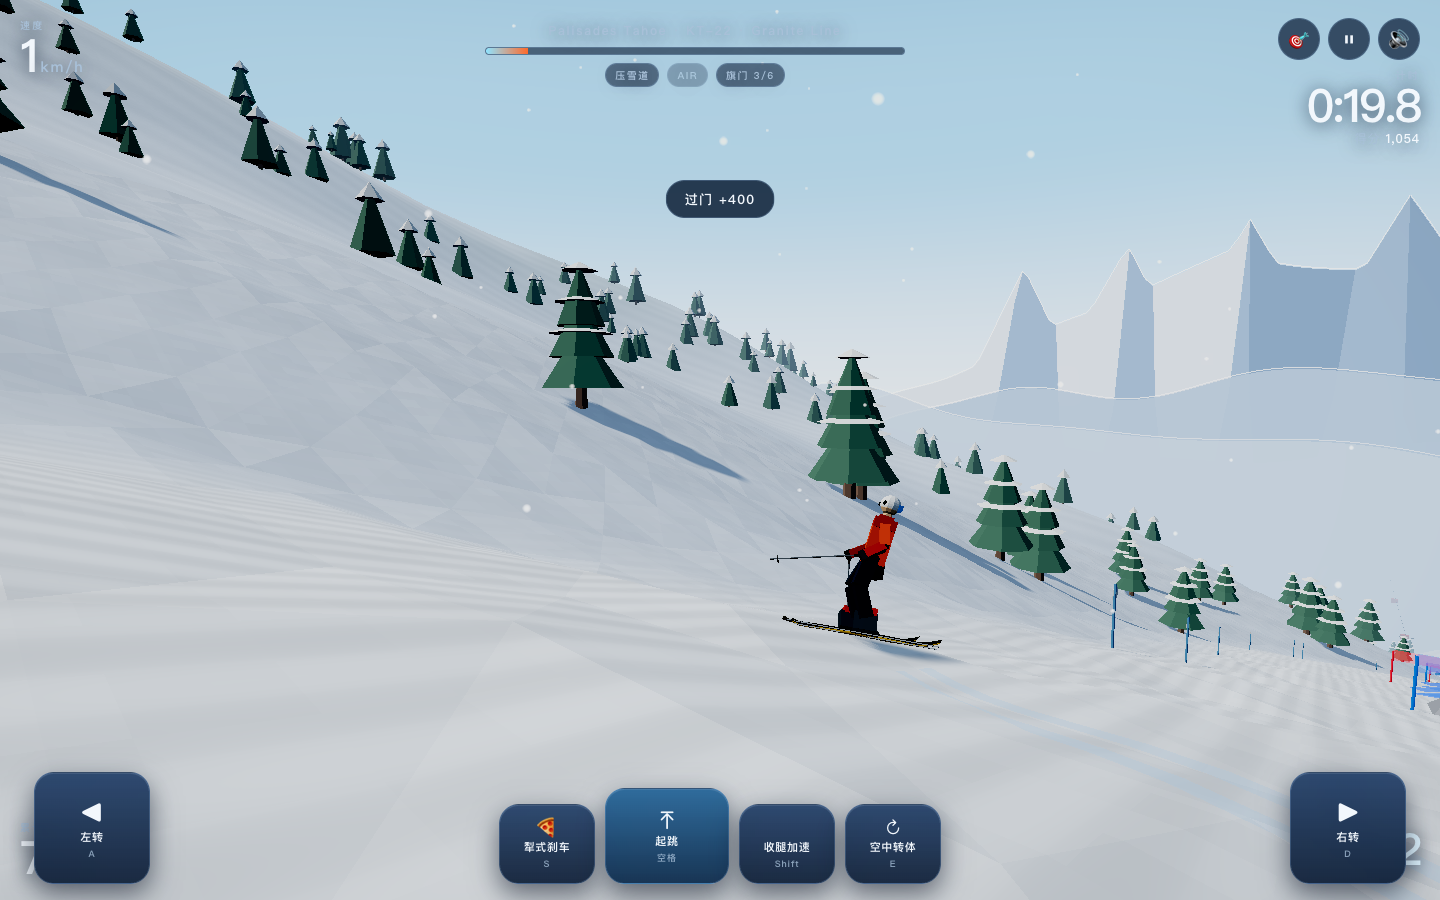
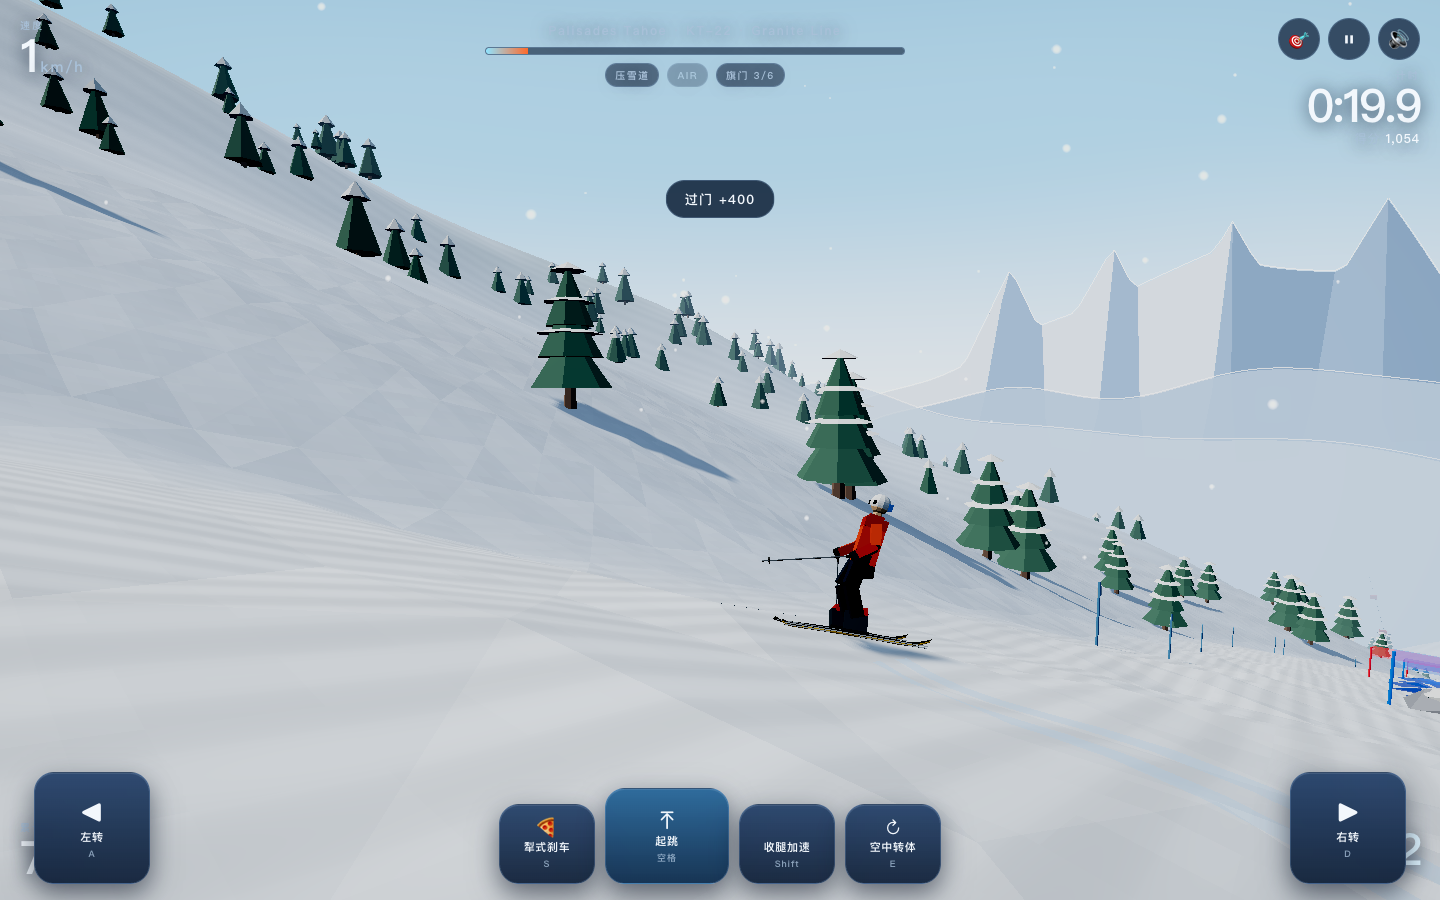
Add powder spray + golden-hour lighting for real-ski feel
- fx.js Spray: per-particle shader (NormalBlending, size+alpha over life)
  so plumes read on bright snow; puff-and-settle billow
- game.js: emitSpray tuned for speed x edge x powder; burstLanding ring on touchdown
- resorts.js: Aspen = warm afternoon gold, Big Sky = alpenglow dusk (low sun -> long shadows)
- game.js: scene.background = sky-top colour + sky dome fog:false, fixes low-sun black-sky-gap triangle
- qa/verify.py: snow-brightness probe majority >=3/5 (side probes catch flank shadows)
- README + reshot QA. 91/91 PASS

diff --git a/src/fx.js b/src/fx.js
@@ -83,28 +83,59 @@ export class Snowfall {
 
 /* ---------------------------------------------------------------- spray */
 
-/** Snow thrown up by the edges — the visual payoff of a hard carve or a powder turn. */
+/**
+ * Snow thrown up by the edges — the visual payoff of a hard carve or a powder turn.
+ *
+ * Each particle now carries its own size and fades both in and out over its life, so a
+ * hard carve reads as a soft billowing cloud of powder rather than a fixed spray of dots.
+ * On ~0.95-albedo sunlit snow AdditiveBlending washes the plume out to nothing, so we use
+ * NormalBlending and let a per-particle alpha attribute carry the puff-and-settle look.
+ */
 export class Spray {
-  constructor(scene, max = 1400) {
+  constructor(scene, max = 2600) {
     this.max = max;
     this.pos = new Float32Array(max * 3);
     this.vel = new Float32Array(max * 3);
     this.life = new Float32Array(max);
+    this.maxLife = new Float32Array(max);
     this.size = new Float32Array(max);
+    this.alpha = new Float32Array(max);
     this.head = 0;
     const geo = new THREE.BufferGeometry();
     geo.setAttribute('position', new THREE.BufferAttribute(this.pos, 3));
-    this.points = new THREE.Points(geo, new THREE.PointsMaterial({
-      map: softDot(), color: 0xf2fbff, size: 0.34,
-      transparent: true, opacity: 0.9, depthWrite: false,
-      sizeAttenuation: true, blending: THREE.AdditiveBlending,
-    }));
+    geo.setAttribute('aSize', new THREE.BufferAttribute(this.size, 1));
+    geo.setAttribute('aAlpha', new THREE.BufferAttribute(this.alpha, 1));
+    // Per-particle size + alpha via a tiny ShaderMaterial. NormalBlending keeps the plume
+    // opaque and readable against bright snow; the soft dot texture rounds every particle.
+    const mat = new THREE.ShaderMaterial({
+      uniforms: { uTex: { value: softDot() }, uPix: { value: (innerHeight || 900) * 0.5 } },
+      transparent: true, depthWrite: false, blending: THREE.NormalBlending,
+      vertexShader: `
+        attribute float aSize; attribute float aAlpha;
+        varying float vA;
+        uniform float uPix;
+        void main(){
+          vA = aAlpha;
+          vec4 mv = modelViewMatrix * vec4(position, 1.0);
+          gl_Position = projectionMatrix * mv;
+          gl_PointSize = aSize * uPix / max(1.0, -mv.z);
+        }`,
+      fragmentShader: `
+        uniform sampler2D uTex; varying float vA;
+        void main(){
+          vec4 t = texture2D(uTex, gl_PointCoord);
+          // slightly cool-white powder
+          gl_FragColor = vec4(vec3(0.96, 0.98, 1.0), t.a * vA);
+        }`,
+    });
+    this.points = new THREE.Points(geo, mat);
     this.points.frustumCulled = false;
+    this.points.renderOrder = 2;
     scene.add(this.points);
     for (let i = 0; i < max; i++) this.pos[i * 3 + 1] = -9999;
   }
 
-  emit(x, y, z, vx, vy, vz, life, spread) {
+  emit(x, y, z, vx, vy, vz, life, spread, size = 0.6) {
     const i = this.head;
     this.head = (this.head + 1) % this.max;
     this.pos[i * 3] = x; this.pos[i * 3 + 1] = y; this.pos[i * 3 + 2] = z;
@@ -112,6 +143,9 @@ export class Spray {
     this.vel[i * 3 + 1] = vy + Math.random() * spread * 0.7;
     this.vel[i * 3 + 2] = vz + (Math.random() - 0.5) * spread;
     this.life[i] = life;
+    this.maxLife[i] = life;
+    this.size[i] = size * (0.7 + Math.random() * 0.7);
+    this.alpha[i] = 0;
   }
 
   update(dt) {
@@ -119,18 +153,29 @@ export class Spray {
       if (this.life[i] <= 0) continue;
       this.life[i] -= dt;
       const j = i * 3;
-      this.vel[j + 1] -= 7.5 * dt;
+      // gentle gravity + air drag so the cloud puffs out then settles
+      this.vel[j] *= (1 - 1.6 * dt);
+      this.vel[j + 2] *= (1 - 1.6 * dt);
+      this.vel[j + 1] -= 5.2 * dt;
       this.pos[j] += this.vel[j] * dt;
       this.pos[j + 1] += this.vel[j + 1] * dt;
       this.pos[j + 2] += this.vel[j + 2] * dt;
-      if (this.life[i] <= 0) this.pos[j + 1] = -9999;
+      // life-normalised: fade in fast, expand, then fade out
+      const t = 1 - this.life[i] / this.maxLife[i];       // 0..1 over lifetime
+      this.alpha[i] = Math.min(1, t * 6) * (1 - t * t) * 0.95; // quick puff, slow settle
+      this.size[i] += dt * 1.9;                            // billow outward
+      if (this.life[i] <= 0) { this.pos[j + 1] = -9999; this.alpha[i] = 0; }
     }
-    this.points.geometry.attributes.position.needsUpdate = true;
+    const a = this.points.geometry.attributes;
+    a.position.needsUpdate = true;
+    a.aSize.needsUpdate = true;
+    a.aAlpha.needsUpdate = true;
   }
 
   clear() {
-    for (let i = 0; i < this.max; i++) { this.life[i] = 0; this.pos[i * 3 + 1] = -9999; }
-    this.points.geometry.attributes.position.needsUpdate = true;
+    for (let i = 0; i < this.max; i++) { this.life[i] = 0; this.pos[i * 3 + 1] = -9999; this.alpha[i] = 0; }
+    const a = this.points.geometry.attributes;
+    a.position.needsUpdate = true; a.aAlpha.needsUpdate = true;
   }
 
   dispose() {

diff --git a/src/resorts.js b/src/resorts.js
@@ -70,16 +70,18 @@ export const RESORTS = [
     },
     physics: { drag: 0.0044, carve: 1.5, maxSpeed: 31, grip: 1.0, deepDrag: 3.0, brake: 0.8 },
     palette: {
-      skyTop: [0.09, 0.24, 0.54], skyMid: [0.38, 0.62, 0.88], skyLow: [1.0, 0.85, 0.66],
-      sunDir: [0.55, 0.24, 0.80], sunTint: [1.0, 0.68, 0.32], sunSharp: 15,
+      // Late-afternoon Colorado gold: warm low sky feeding a cool zenith. Low sun (y≈0.16)
+      // rakes across the snow so trees and moguls throw long amber shadows.
+      skyTop: [0.10, 0.22, 0.48], skyMid: [0.52, 0.60, 0.82], skyLow: [1.0, 0.72, 0.42],
+      sunDir: [0.60, 0.16, 0.78], sunTint: [1.0, 0.62, 0.28], sunSharp: 13,
       // Warm afternoon light on *white* snow. The old warm snow + warm fog combination
       // tinted the whole mountain sand-beige and read as a desert.
-      fog: 0xdcdfe4, fogNear: 100, fogFar: 1000,
+      fog: 0xe6d9cc, fogNear: 110, fogFar: 1050,
       snowLo: [0.95, 0.955, 0.97], snowHi: [1.0, 1.0, 1.0], offPiste: [0.86, 0.87, 0.93],
       rock: 0x8b7a6c, tree: 0x2f5138, treeSnow: 0xfff4e2, corduroy: 0.03,
       // Ambient stays *cool* — snow in shade is lit by blue sky, and the warmth belongs to
       // the directional sun only. A warm hemisphere light turned the whole run beige.
-      hemiSky: 0xd7e6ff, hemiGround: 0x55503f, hemiInt: 2.1, sunInt: 3.4, exposure: 1.10,
+      hemiSky: 0xd9e4ff, hemiGround: 0x5a4c3a, hemiInt: 1.9, sunInt: 3.6, exposure: 1.12,
     },
     flora: { kind: 'aspen', density: 1.0, lineGap: 5, scale: [0.9, 1.5] },
     props: { lift: 'gondola', hut: true, snowgun: false, bamboo: false, serac: false, village: false },
@@ -160,10 +162,10 @@ export const RESORTS = [
     cn_region: '美国 蒙大拿州',
     difficulty: 'black',
     seed: 5503,
-    blurb: 'Lone Peak 那个金字塔就在正前方。空气干冷，雪是冷烟一样的，树线以上几乎只有你和风。',
+    blurb: 'Lone Peak 那个金字塔就在正前方。日落把树线以上的雪染成粉金色，空气干冷，只有你和风。',
     facts: { verticalRefM: 1326, summitRefM: 3403, note: 'Lone Peak Tram · 大落差' },
     trails: ['Liberty Bowl', 'Marx', 'Lenin', 'Big Rock Tongue'],
-    tags: ['树线以上', '冷烟雪', '大落差', 'Lone Peak'],
+    tags: ['树线以上', '日落粉金', '大落差', 'Lone Peak'],
     run: { name: 'Liberty Bowl · Lone Peak', lengthM: 2800, parSec: 96 },
     terrain: {
       pitch: 0.335, pisteHalf: 24, wallSteep: 1.2, rollAmp: 5.2,
@@ -173,12 +175,17 @@ export const RESORTS = [
     },
     physics: { drag: 0.0036, carve: 1.48, maxSpeed: 38, grip: 1.0, deepDrag: 3.0, brake: 0.75 },
     palette: {
-      skyTop: [0.04, 0.14, 0.42], skyMid: [0.22, 0.48, 0.82], skyLow: [0.72, 0.86, 0.98],
-      sunDir: [0.35, 0.28, 0.89], sunTint: [1.0, 0.88, 0.70], sunSharp: 30,
-      fog: 0xbcd6f2, fogNear: 130, fogFar: 1150,
-      snowLo: [0.92, 0.96, 1.0], snowHi: [1.0, 1.0, 1.0], offPiste: [0.82, 0.90, 1.0],
-      rock: 0x77808f, tree: 0x1a3b34, treeSnow: 0xf7fcff, corduroy: 0.02,
-      hemiSky: 0xc6e4ff, hemiGround: 0x2a4056, hemiInt: 2.0, sunInt: 3.3, exposure: 1.06,
+      // Alpenglow at last light: a hot pink-orange horizon climbing into deep dusk blue.
+      // The sun sits right on the horizon (y≈0.10) so Lone Peak and every bump throws a
+      // long rose-gold shadow across the bowl.
+      skyTop: [0.06, 0.10, 0.34], skyMid: [0.46, 0.42, 0.66], skyLow: [1.0, 0.55, 0.46],
+      sunDir: [0.40, 0.10, 0.86], sunTint: [1.0, 0.55, 0.40], sunSharp: 22,
+      fog: 0xd9bfc6, fogNear: 130, fogFar: 1150,
+      // snow at dusk picks up the warm sky low and cool shade high — keep the base bright
+      // so it still reads as snow, the warmth comes from the directional sun.
+      snowLo: [0.94, 0.93, 0.96], snowHi: [1.0, 0.99, 0.98], offPiste: [0.82, 0.86, 0.96],
+      rock: 0x6b6270, tree: 0x24303f, treeSnow: 0xffe9e0, corduroy: 0.02,
+      hemiSky: 0xcabfe0, hemiGround: 0x3a3550, hemiInt: 1.9, sunInt: 3.5, exposure: 1.08,
     },
     flora: { kind: 'sparse', density: 0.4, lineGap: 9, scale: [0.7, 1.2] },
     props: { lift: 'tram', hut: false, snowgun: false, bamboo: false, serac: false, village: false },

diff --git a/src/game.js b/src/game.js
@@ -109,6 +109,14 @@ export class Game {
     this.teardownWorld();
     this.resort = resort;
     this.scene.fog = new THREE.Fog(resort.palette.fog, resort.palette.fogNear, resort.palette.fogFar);
+    // Fallback clear colour = the sky's mid tone. The sky dome normally covers the frame, but
+    // at a low sun angle with a high FOV the very top of the dome can fall behind the far plane
+    // for a sliver; without a background that sliver reads as a hard black triangle. Painting
+    // the clear colour with the sky mid keeps any gap indistinguishable from the sky.
+    {
+      const t = resort.palette.skyTop;
+      this.scene.background = new THREE.Color(t[0], t[1], t[2]);
+    }
     this.renderer.toneMappingExposure = resort.palette.exposure;
 
     this.terrain = new Terrain(this.scene, resort);
@@ -266,6 +274,7 @@ export class Game {
         if (e.type === 'kicker') this.ui.toast('起跳！');
       } else if (e.type === 'land') {
         this.audio.land(e.impact);
+        this.burstLanding(e.impact);
         if (e.airTime > 0.45) {
           this.addScore(Math.round(e.airTime * 120), `滞空 ${e.airTime.toFixed(1)}s`);
           this.bumpCombo(0.3);
@@ -319,24 +328,46 @@ export class Game {
 
   emitSpray(dt, input) {
     const p = this.physics;
-    if (p.airborne || p.speed < 2.5) return;
+    if (p.airborne || p.speed < 2.0) return;
     const edge = Math.abs(p.edge);
-    const intensity = edge * 0.85 + p.offPiste * 1.25 + (input.brake ? 0.9 : 0);
-    const count = Math.min(9, Math.floor(intensity * p.speed * dt * 2.6));
+    // A carve on any surface throws snow; deep powder and braking throw far more.
+    const intensity = edge * 1.35 + p.offPiste * 1.8 + (input.brake ? 1.3 : 0);
+    if (intensity < 0.08) return;
+    const count = Math.min(22, Math.floor((0.6 + intensity) * p.speed * dt * 5.0));
     if (count <= 0) return;
     const dirX = Math.sin(p.heading);
     const dirZ = -Math.cos(p.heading);
+    // faster + harder carve => bigger, higher plume
+    const power = clamp(intensity * (0.7 + p.speed * 0.06), 0.15, 3.4);
     for (let i = 0; i < count; i++) {
       const side = i % 2;
       this.skier.skiTailWorld(side, this.tmp);
       const back = 0.35 + Math.random() * 0.6;
       this.spray.emit(
         this.tmp.x, this.tmp.y + 0.05, this.tmp.z,
-        -dirX * p.speed * back + Math.sign(p.edge || 1) * edge * 3.2,
-        1.4 + p.speed * 0.06 + p.offPiste * 2.2,
+        -dirX * p.speed * back + Math.sign(p.edge || 1) * edge * 4.0,
+        1.9 + p.speed * 0.09 + p.offPiste * 3.0 + power * 0.8,
         -dirZ * p.speed * back,
-        0.35 + Math.random() * 0.45,
-        0.9 + p.offPiste * 1.4
+        0.45 + Math.random() * 0.55,
+        0.8 + p.offPiste * 1.8,
+        0.6 + power * 0.6           // particle base size grows with carve power
+      );
+    }
+  }
+
+  /** One-shot ring of powder kicked up when the skier touches down from a jump. */
+  burstLanding(impact) {
+    const p = this.physics;
+    const puff = clamp(impact * 0.9 + 0.4, 0.5, 2.6);
+    const n = Math.round(18 + puff * 16);
+    for (let i = 0; i < n; i++) {
+      const a = Math.random() * Math.PI * 2;
+      const r = 1.4 + Math.random() * 2.2;
+      this.spray.emit(
+        p.x + Math.cos(a) * 0.5, p.y + 0.1, p.z + Math.sin(a) * 0.5,
+        Math.cos(a) * r, 2.4 + puff * 1.6 + Math.random() * 2.0, Math.sin(a) * r,
+        0.55 + Math.random() * 0.5, 1.4,
+        0.75 + puff * 0.5
       );
     }
   }

diff --git a/src/world.js b/src/world.js
@@ -287,6 +287,7 @@ export class World {
       new THREE.ShaderMaterial({
         side: THREE.BackSide,
         depthWrite: false,
+        fog: false,
         uniforms: this.skyUniforms,
         vertexShader: `varying vec3 vP; void main(){ vP = position; gl_Position = projectionMatrix * modelViewMatrix * vec4(position,1.0); }`,
         fragmentShader: `

diff --git a/qa/verify.py b/qa/verify.py
@@ -173,9 +173,12 @@ def main():
             else:
                 # A stray probe can land on the skier's shadow / a tree / a gate, so judge the
                 # snow by the median-ish brightness (most points must read as lit snow) rather
-                # than the single darkest sample.
+                # than the single darkest sample. Two side probes (0.12/0.88, 0.72) sit over the
+                # flank slopes and each occasionally catches a tree or a long dusk shadow, so
+                # require a *majority* (>=3 of 5) rather than 4 — a true grey-concrete regression
+                # darkens the whole frame and still fails this, while one-off side hits do not.
                 lit = sorted(px)
-                bright_enough = sum(1 for v in px if v > 120) >= 4
+                bright_enough = sum(1 for v in px if v > 120) >= 3
                 check(f"resort {rid}: snow reads as lit snow, not grey concrete",
                       bright_enough and max(px) < 253,
                       "luma " + ", ".join(f"{v:.0f}" for v in px))

diff --git a/README.md b/README.md
@@ -48,6 +48,29 @@ Catmull-Rom 样条，再沿样条每 ~6m 放一个箭头贴片（`ShapeGeometry`
 z-fighting），所以开局即完整、不依赖分块流式加载，也永远精确压在门上。用屏幕 🎯 按钮或
 `L` 键随时开关（默认开，老手可关）。
 
+### 转弯雪雾（powder spray）
+
+转弯刻滑、犁式刹车、跳跃落地时，板下会**腾起一团白色雪雾**——滑得越快、刃咬得越狠、
+雪越深，雪雾越浓越高（`game.emitSpray` 按速度 × 刃角 × 深雪程度算发射量与初速，落地
+用 `burstLanding` 打一圈粉雪爆）。粒子在 `fx.js` 的 `Spray` 里用一个小 shader 逐粒控制
+大小与透明度，先快速鼓起再缓慢消散，像真实粉雪那样"炸开又飘落"。
+
+> 关键：亮雪（反照率≈0.95）上**不能用 AdditiveBlending**——加色会被白雪冲平到看不见。
+> 雪雾走 `NormalBlending` + 逐粒 alpha，才在雪面上读得出来。
+
+### 黄金时刻氛围
+
+不是六个雪场都顶着同一片正午蓝天。天空是一个三段渐变穹顶（`skyLow→skyMid→skyTop`）
+加一颗会辉光的太阳，配色全部写在各雪场的 `palette` 里，于是氛围各不相同：
+
+- **Aspen（阿斯本）**：午后金光——暖橙地平线爬向冷蓝天顶，低太阳把树和雪包的影子拉长。
+- **Big Sky（大天空）**：日落粉金（alpenglow）——粉紫夜幕压着火烧云地平线，Lone Peak
+  投出长长的玫瑰金影子。
+- 其余四场保持清爽白天 / 阴天粉雪，做对比。
+
+太阳压得越低，阴影越长、氛围越戏剧化。`scene.background` 用天顶色兜底，避免低太阳 +
+大视场时天空穹顶顶端露出黑边。
+
 ### 双板，不是单板
 
 `src/skier.js` 里是一套完整的双板装备：两条带侧切（sidecut）、翘头（tip rocker）、
@@ -127,7 +150,7 @@ python3 qa/verify.py     # 需要 playwright + pillow
 并且**通过点击屏幕按钮**驱动游戏。物理断言走 `window.__SKI__.simulate()` 的确定性定步长，
 因为软件渲染只有几帧、主循环还会 clamp `dt`，靠墙上时间等待验证不了物理。
 
-当前：**67/67 通过**，截图在 `qa/shots/`。覆盖内容包括：
+当前：**91/91 通过**，截图在 `qa/shots/`。覆盖内容包括：
 
 - 六个雪场都能加载，几何 / 旗门 / 台跳齐全
 - **仅用转向按钮的 autopilot 能在六条道上全程守住压雪道**（按钮可玩性的硬证据）
@@ -160,3 +183,6 @@ python3 qa/verify.py     # 需要 playwright + pillow
 - **`mergeGeometries()` 要求属性一致**：`IcosahedronGeometry` 是非索引的，Box/Cylinder/Cone
   是索引的；uv 也要先剥掉（见 `stripUV()` / `paint()`）。
 - `sizeAttenuation` 的雪花，离相机最近的会变得巨大 —— 粉雪日会变成满屏白色光斑。
+- **低太阳 + 大视场会露出天空黑边**：太阳压低做黄金时刻氛围时，天空穹顶顶端偶尔会掉到
+  远裁剪面之外，露出黑色清屏色的三角。给 `scene.background` 兜一层天顶色即可（天空球本身
+  还要 `fog:false`，否则天顶会被雾染色）。
